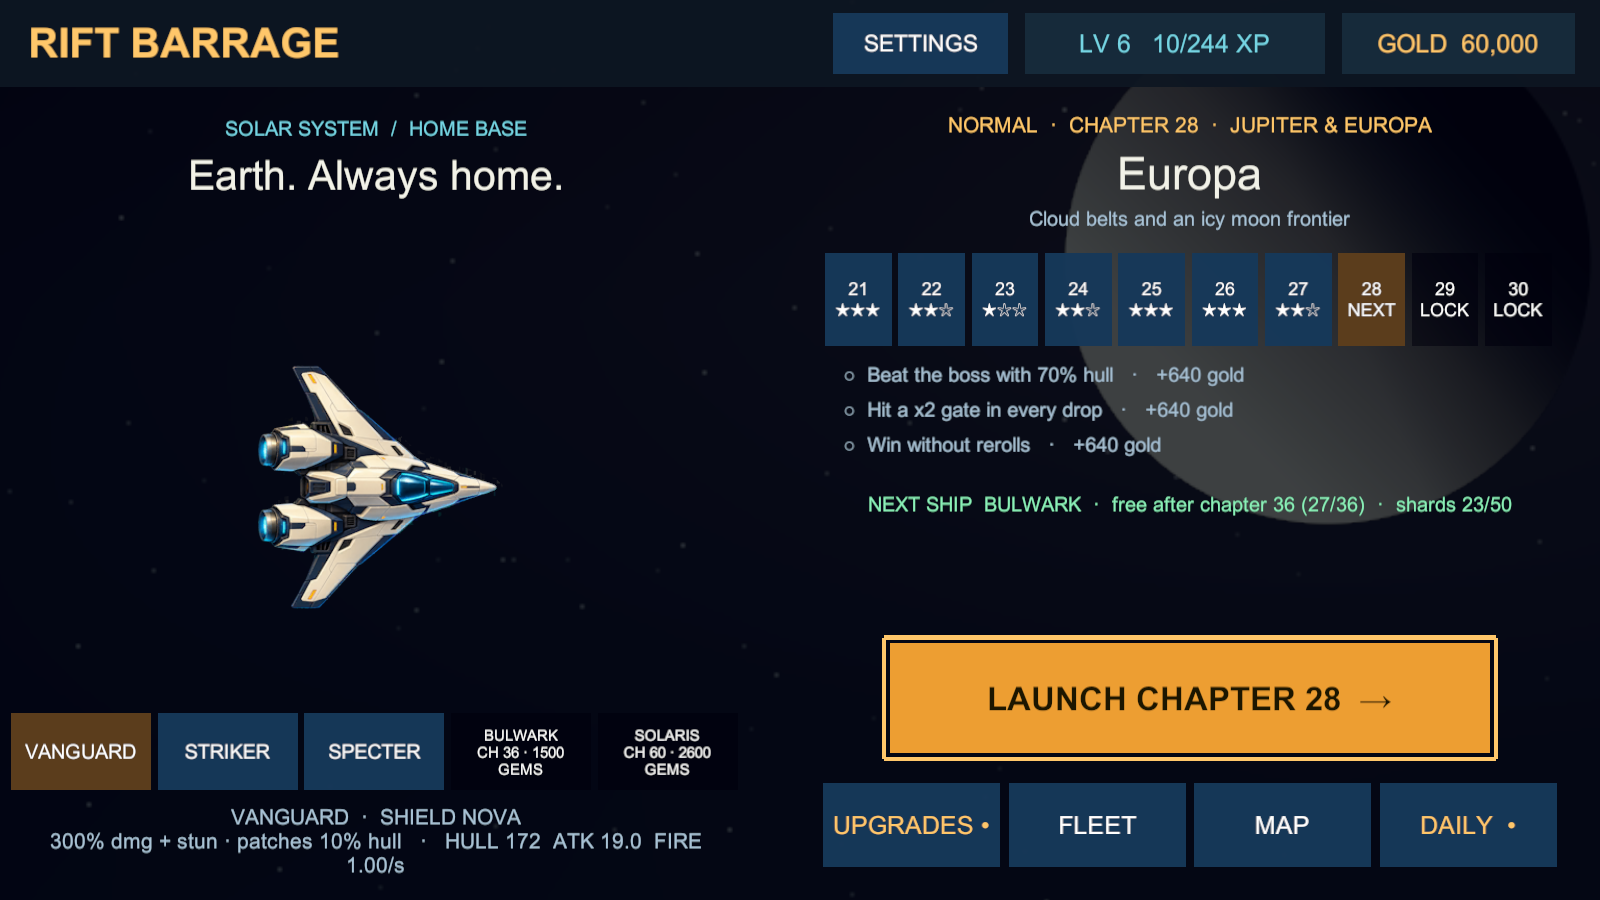
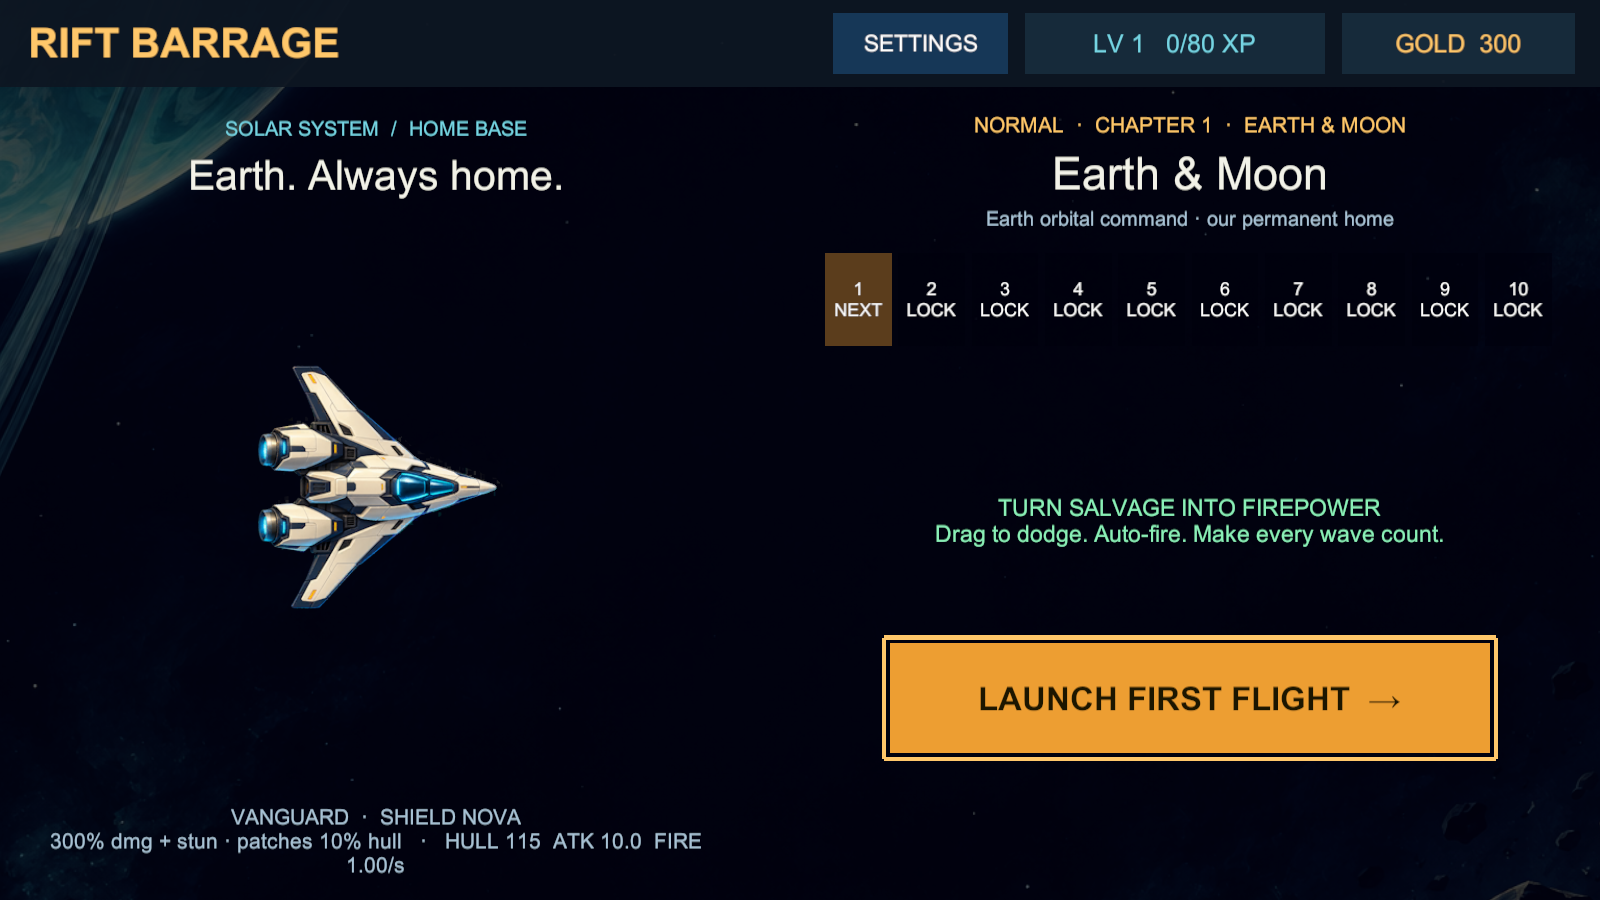
Hint at the journey without spoiling it
Say the campaign leaves Earth orbit and pushes out through the solar
system instead of listing the destinations and the whole fleet. Drop
the region map and fleet screenshots, swap the mid-game hangar for the
first-flight hangar, and use neutral captions. DEPLOY.md now records
that this repository must never get GitHub Actions workflows.

diff --git a/site/index.html b/site/index.html
@@ -6,18 +6,18 @@
   <title>Rift Barrage</title>
   <meta name="description" content="Rift Barrage: a landscape space shooter. Dodge, auto-fire, multiply your salvage in the reactor and build a new arsenal every flight. Preview builds for Android and Windows.">
   <meta property="og:title" content="Rift Barrage">
-  <meta property="og:description" content="A landscape space shooter from Earth to TRAPPIST-1. Preview builds for Android and Windows.">
+  <meta property="og:description" content="A landscape space shooter: leave Earth orbit and fight your way out through the solar system. Preview builds for Android and Windows.">
   <meta property="og:image" content="https://riftbarrage.cristiangirlea.ro/screenshots/03-boss-saturn.png">
   <meta name="theme-color" content="#08101c">
   <link rel="stylesheet" href="style.css">
 </head>
 <body>
   <header class="hero">
-    <img class="hero-art" src="screenshots/hero-saturn.png" alt="Rift Barrage combat: the Vanguard faces a sector boss over Saturn">
+    <img class="hero-art" src="screenshots/hero-saturn.png" alt="Rift Barrage combat: the Vanguard faces a sector boss">
     <div class="hero-text">
       <p class="kicker">Preview 0.1.0 · Android · Windows</p>
       <h1>RIFT BARRAGE</h1>
-      <p class="lead">Dodge. Auto-fire. Make every wave count.<br>Fly from Earth orbit to TRAPPIST-1, multiply your salvage in the reactor and build a new arsenal every flight.</p>
+      <p class="lead">Dodge. Auto-fire. Make every wave count.<br>Leave Earth orbit and fight your way out through the solar system, one sector at a time. Multiply your salvage in the reactor and build a new arsenal every flight.</p>
       <div class="downloads">
         <a class="btn primary" href="https://github.com/cristiangirlea/rift-barrage/releases/latest/download/RiftBarrage-android.apk">Download for Android</a>
         <a class="btn" href="https://github.com/cristiangirlea/rift-barrage/releases/latest/download/RiftBarrage-windows-x64.zip">Download for Windows</a>
@@ -29,23 +29,21 @@
 
   <main>
     <section class="features">
-      <article><h2>Five ships</h2><p>Vanguard, Striker, Specter, Bulwark and Solaris, each with its own shots, sound and skill: Shield Nova, Missile Barrage, Void Nova, Siege Slam and Prism Lance.</p></article>
+      <article><h2>A growing fleet</h2><p>Launch in the Vanguard with its Shield Nova. New ships join as you push further out, each with its own guns, sound and skill.</p></article>
       <article><h2>The salvage reactor</h2><p>Every few waves your cores pour through a board of ×2 and ×3 gates, catapults and counter locks. Aim the spout, release, and spend the multiplied points on upgrades for the run.</p></article>
-      <article><h2>A 200-chapter route</h2><p>Twenty regions from Earth and the Moon past the outer planets to the TRAPPIST-1 worlds, with Hard and Nightmare modes, stars, missions and an endless Infinite Mode.</p></article>
+      <article><h2>The long way out</h2><p>Every sector takes you further from home, with new enemies, bosses and skies. Earn stars, clear chapter missions, try the harder modes, or test yourself in the endless Infinite Mode.</p></article>
       <article><h2>Permanent progress</h2><p>Gold upgrades, ship levels and mastery, gear you merge into higher tiers, pilots, engine trails and daily supplies that wait for you between sessions.</p></article>
     </section>
 
     <section>
       <h2 class="section-title">Screenshots</h2>
       <div class="gallery">
-        <figure><img src="screenshots/02-combat-europa.png" alt="Combat over Europa" loading="lazy"><figcaption>Combat over Europa</figcaption></figure>
+        <figure><img src="screenshots/02-combat-europa.png" alt="Dodging enemy fire near Jupiter" loading="lazy"><figcaption>Dodge and auto-fire</figcaption></figure>
         <figure><img src="screenshots/04-drop.png" alt="The salvage reactor drop board" loading="lazy"><figcaption>The salvage reactor</figcaption></figure>
         <figure><img src="screenshots/08-draft.png" alt="Choosing an upgrade in the draft" loading="lazy"><figcaption>Build your firepower</figcaption></figure>
-        <figure><img src="screenshots/01-hangar.png" alt="The hangar and chapter route" loading="lazy"><figcaption>Hangar and route</figcaption></figure>
-        <figure><img src="screenshots/05-fleet.png" alt="The fleet of five ships" loading="lazy"><figcaption>The fleet</figcaption></figure>
-        <figure><img src="screenshots/07-map.png" alt="The region map" loading="lazy"><figcaption>Region map</figcaption></figure>
+        <figure><img src="screenshots/01-hangar.png" alt="The hangar before the first flight" loading="lazy"><figcaption>The hangar</figcaption></figure>
         <figure><img src="screenshots/06-gear.png" alt="Gear and supply crates" loading="lazy"><figcaption>Gear and supply crates</figcaption></figure>
-        <figure><img src="screenshots/03-boss-saturn.png" alt="Sector boss over Saturn" loading="lazy"><figcaption>Sector boss over Saturn</figcaption></figure>
+        <figure><img src="screenshots/03-boss-saturn.png" alt="A sector boss among the outer planets" loading="lazy"><figcaption>Sector bosses</figcaption></figure>
       </div>
     </section>
 

diff --git a/README.md b/README.md
@@ -1,10 +1,10 @@
 # Rift Barrage
 
-A landscape space shooter: dodge, auto-fire and make every wave count. Fly from Earth orbit past the outer planets to the TRAPPIST-1 worlds, multiply your salvage in the reactor, and build a new arsenal every flight.
+A landscape space shooter: dodge, auto-fire and make every wave count. Leave Earth orbit and fight your way out through the solar system, one sector at a time. Multiply your salvage in the reactor and build a new arsenal every flight.
 
 **Website:** [riftbarrage.cristiangirlea.ro](https://riftbarrage.cristiangirlea.ro)
 
-![Sector boss over Saturn](site/screenshots/03-boss-saturn.png)
+![A sector boss](site/screenshots/03-boss-saturn.png)
 
 ## Download (preview 0.1.0)
 
@@ -23,18 +23,17 @@ This is an early preview. Balance will change, and later previews may not keep y
 
 ## What is in the preview
 
-- **Five ships:** Vanguard, Striker, Specter, Bulwark and Solaris, each with its own shots, sound and skill.
+- **A growing fleet:** launch in the Vanguard; new ships join as you push further out, each with its own guns, sound and skill.
 - **The salvage reactor:** aim and release your cores through ×2/×3 gates, catapults and counter locks, then spend the points on upgrades for the run.
-- **The route:** a 200-chapter route through 20 regions, with Normal, Hard and Nightmare, stars, chapter missions and Infinite Mode.
+- **The long way out:** every sector takes you further from home, with stars, chapter missions, harder modes and an endless Infinite Mode.
 - **Permanent progress:** gold upgrades, ship levels and mastery, mergeable gear, pilots, engine trails and daily supplies.
 
 ## Screenshots
 
 | | |
 | --- | --- |
-| ![Combat over Europa](site/screenshots/02-combat-europa.png) | ![The salvage reactor](site/screenshots/04-drop.png) |
-| ![Draft](site/screenshots/08-draft.png) | ![Hangar](site/screenshots/01-hangar.png) |
-| ![Fleet](site/screenshots/05-fleet.png) | ![Region map](site/screenshots/07-map.png) |
+| ![Dodge and auto-fire](site/screenshots/02-combat-europa.png) | ![The salvage reactor](site/screenshots/04-drop.png) |
+| ![Build your firepower](site/screenshots/08-draft.png) | ![The hangar](site/screenshots/01-hangar.png) |
 
 ## Privacy
 

diff --git a/DEPLOY.md b/DEPLOY.md
@@ -19,3 +19,7 @@ Builds are attached to GitHub Releases with stable file names, so the site's lin
 - `RiftBarrage-android.apk`
 - `RiftBarrage-windows-x64.zip`
 - `SHA256SUMS.txt`
+
+## No GitHub Actions
+
+This repository has no workflows and must not get any. Cloudflare Pages deploys `site/` on its own build quota, and releases are uploaded with `gh release`. That way nothing here spends GitHub Actions minutes. A self-hosted runner must never serve a public repository: its pull requests can come from anyone.
